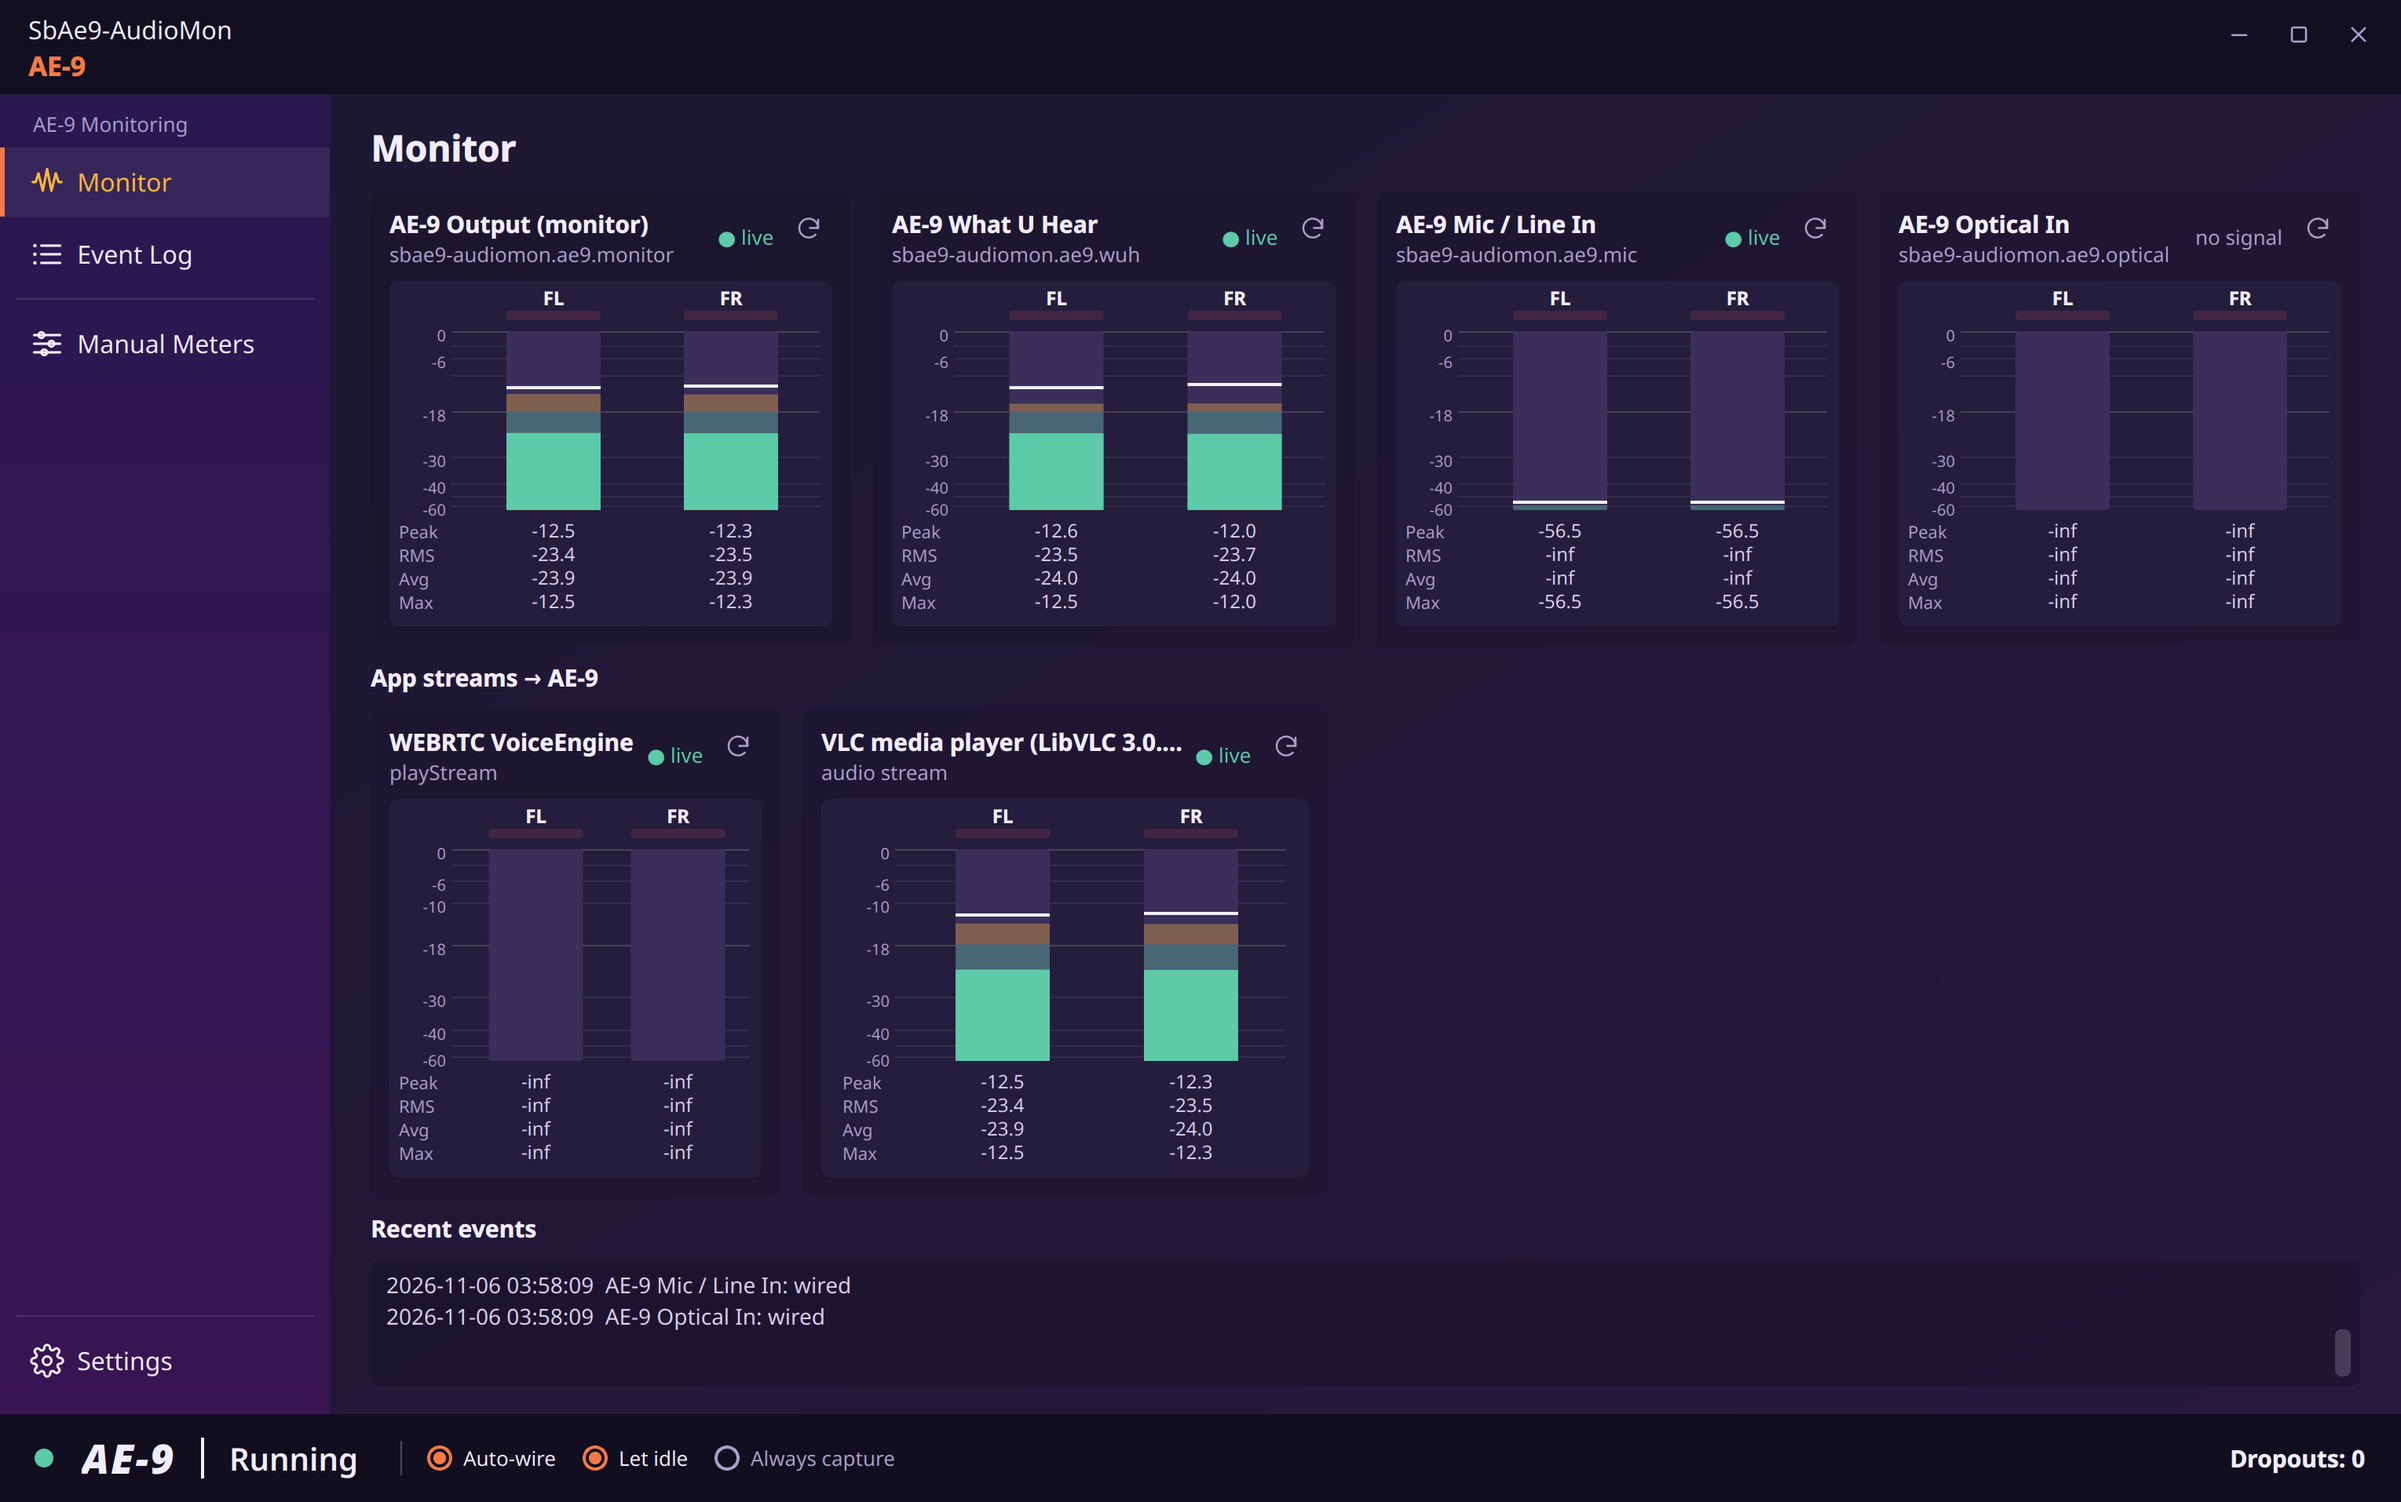
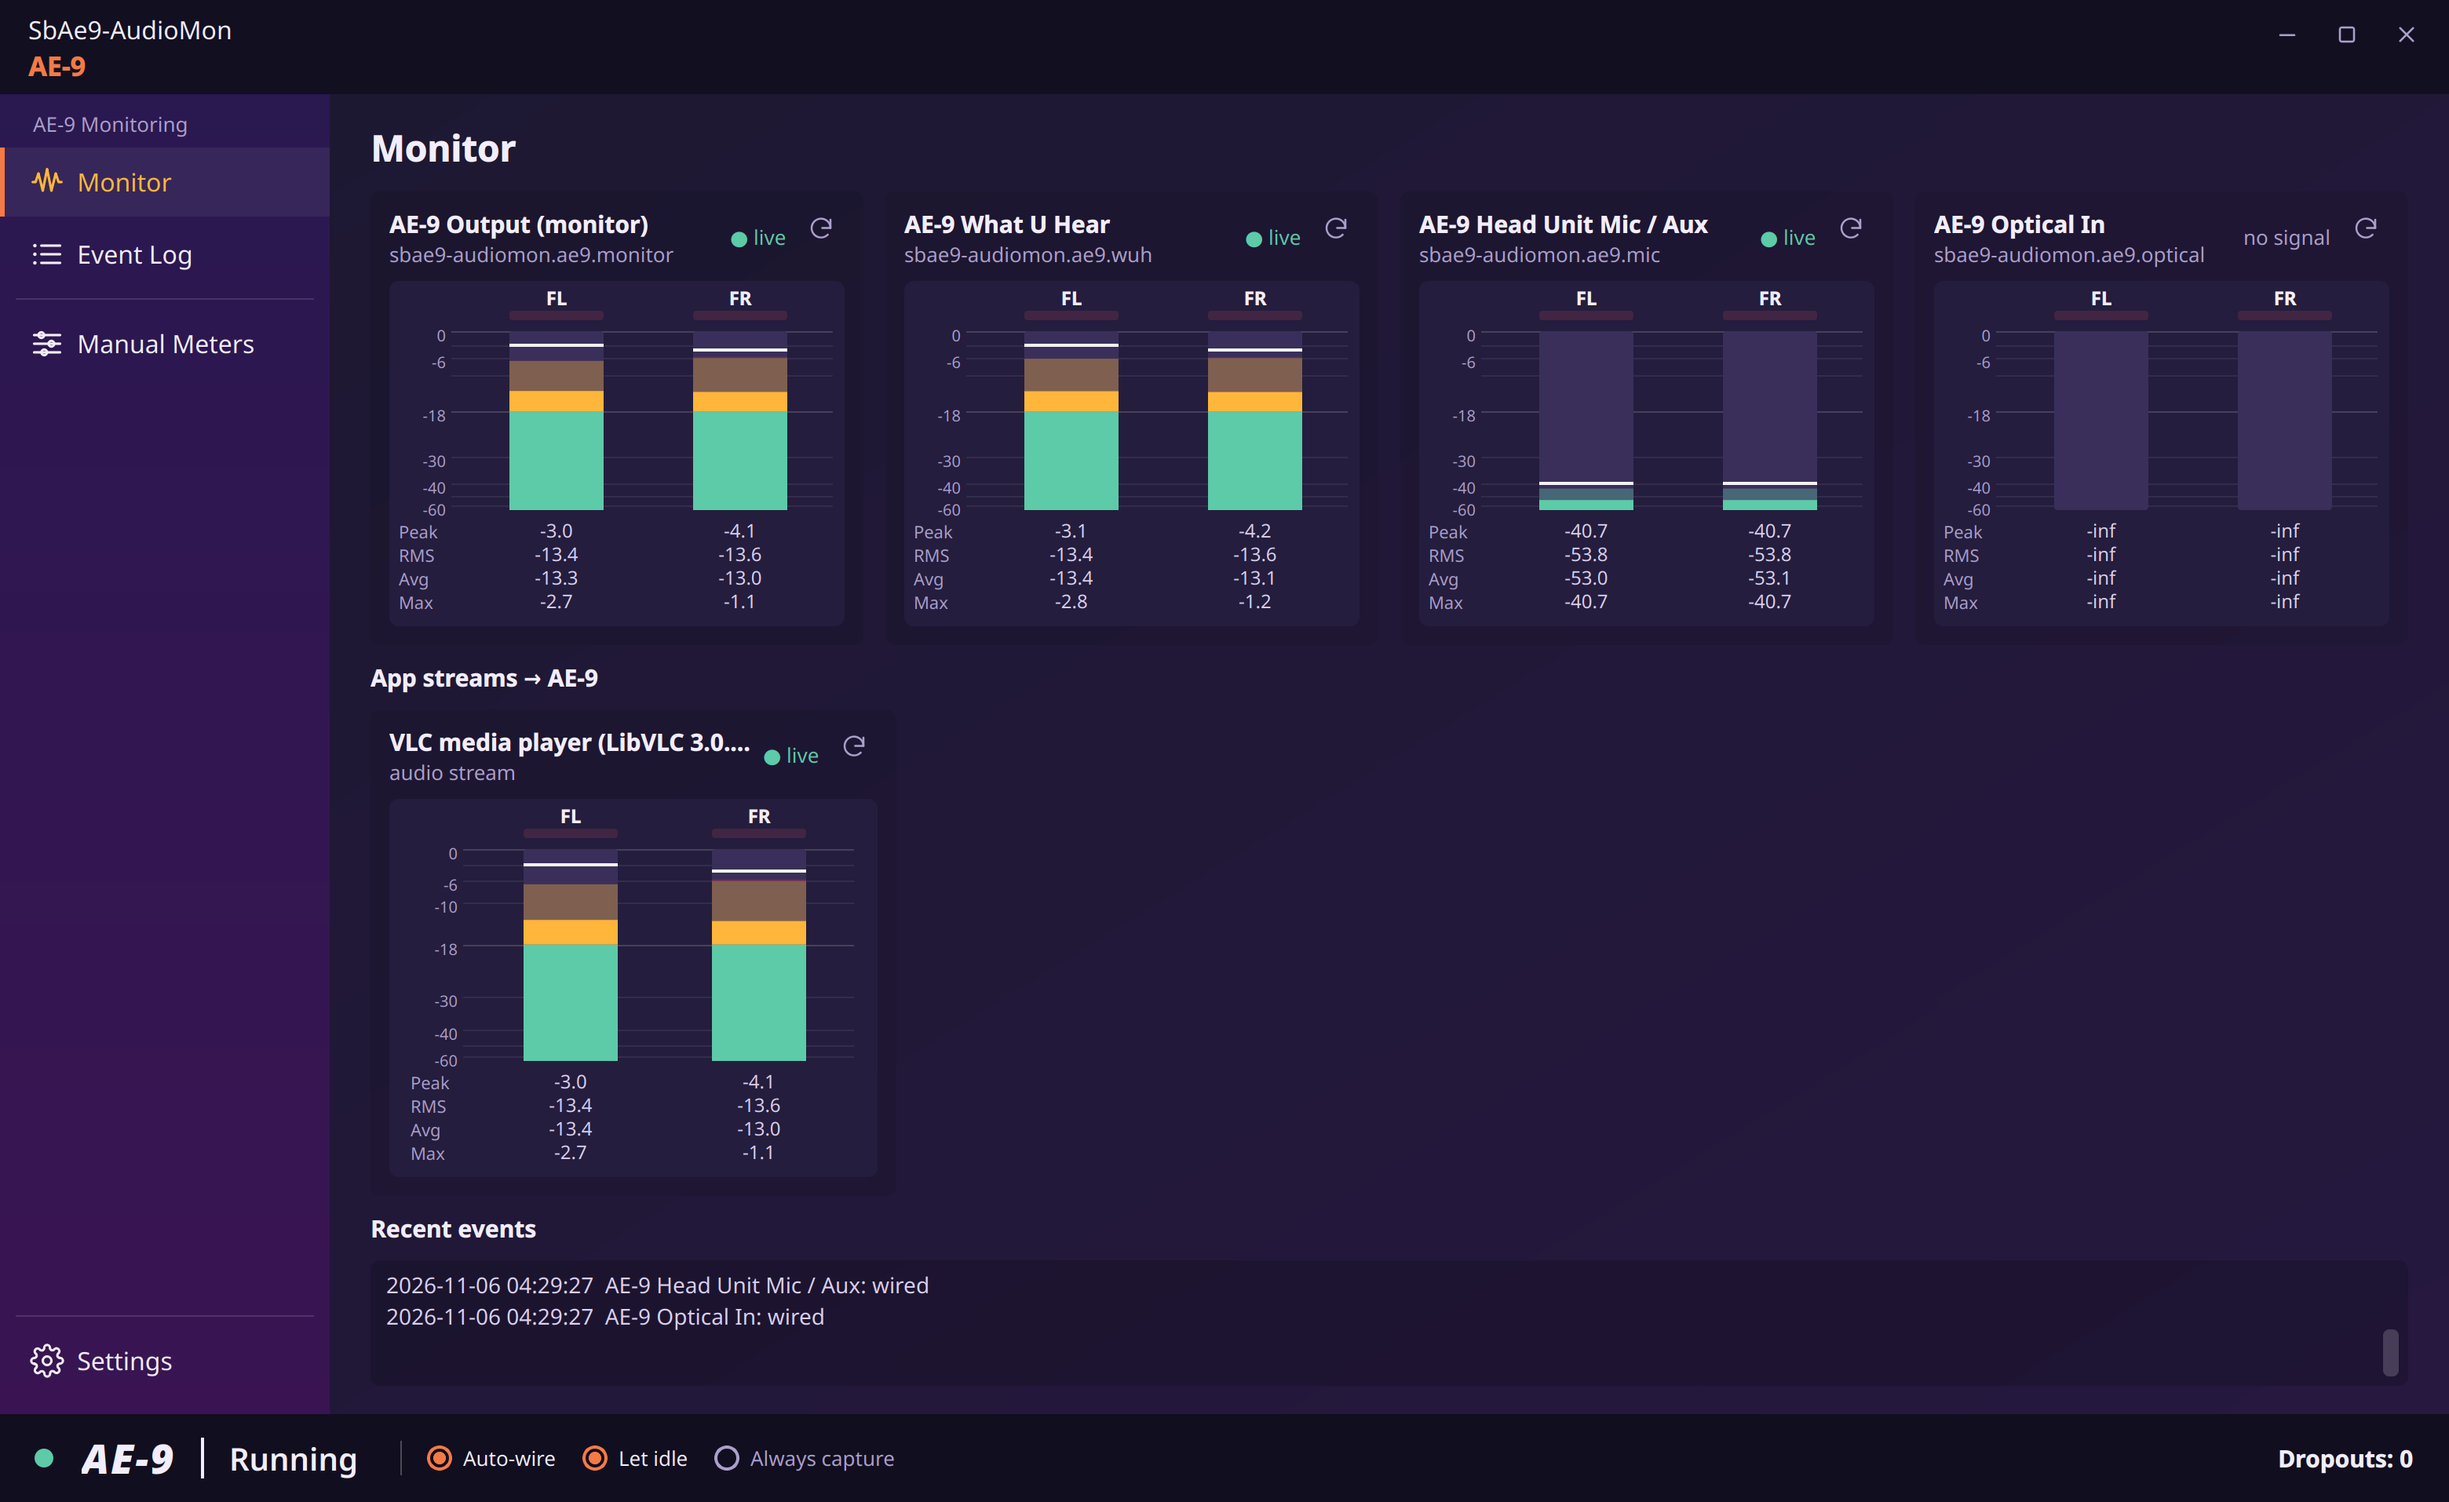
Name the head unit's input "AE-9 Head Unit Mic / Aux"; kit 0.3.3
Names now say where each jack lives. The mic meter is the head unit's input
(the XLR/TRS and 3.5 mm mic jacks share it), not a "line in": meter title,
log lines, Settings and README updated, and the README says which jacks each
meter covers. Node names are unchanged. Kit 0.3.3 gives the fake card the
driver's new desktop name; screenshots retaken (the real one with the mic live).

diff --git a/sbae9kit/testing/pipewire.py b/sbae9kit/testing/pipewire.py
@@ -41,6 +41,9 @@ from . import fixture_path, scaled
 SINK = "alsa_output.pci-0000_06_00.0.analog-stereo"
 MIC = "alsa_input.pci-0000_06_00.0.analog-stereo"
 WHAT_U_HEAR = "alsa_input.ae9_what_u_hear"
+# The driver's desktop name for the head unit's input: the XLR/TRS jack and the
+# 3.5 mm mic jack share it (config/61-ae9-names.conf). The snapshot predates it.
+MIC_DESC = "AE-9 Head Unit Mic / Aux"
 OPTICAL = "alsa_input.ae9_optical"
 WUH_OFFSET_DB = 0.0           # What U Hear is level-exact against the source (a -20 dBFS
                               # peak sine reads -20 peak / -23 RMS, as at the output)
@@ -59,7 +62,7 @@ class FakePipeWire:
         self.handlers = {}            # prog -> fn(*args) -> str, for commands an app adds
         self.streams = {}             # app stream node id -> level dBFS
         self.silent_restart = False   # What U Hear runs but delivers silence (the bug)
-        self.mic_db = None            # level on Mic / Line In (None = silence)
+        self.mic_db = None            # level on the head unit's Mic / Aux input (None = silence)
         self.optical_db = None        # level on a lit Optical In (None = no light: silence)
         self.jitter = 0.0             # +/- dB of random wobble on every level (demos)
         self.suspend_after = scaled(REAL_SUSPEND_AFTER)
@@ -106,7 +109,9 @@ class FakePipeWire:
         for o in snapshot:
             if o.get("type") != "PipeWire:Interface:Node":
                 continue
-            props = o["info"]["props"]
+            props = dict(o["info"]["props"])
+            if props.get("node.name") == MIC:
+                props["node.description"] = MIC_DESC   # as the driver's names config sets it
             nid = self._node(props)
             self._card_nodes.append(nid)
             if props.get("media.class") == "Audio/Sink":

diff --git a/audiomon/window.py b/audiomon/window.py
@@ -136,19 +136,19 @@ class SettingsPage(Page):
         self.body.addWidget(label("Monitoring", "sectionTitle"))
         self.auto_cb = check(
             "Auto-wire AE-9",
-            "Meter the AE-9 output monitor, What U Hear, Mic / Line In, Optical In and every "
+            "Meter the AE-9 output monitor, What U Hear, the head unit's Mic / Aux, the card's Optical In and every "
             "app stream playing to the AE-9. Listen-only: never changes defaults, moves "
             "streams or touches mixer controls.",
             cfg["mode"] == "ae9", win.set_auto)
         self.idle_cb = check(
             "Let the AE-9 idle",
             "Meters never keep the card awake. The output and app meters are passive, and "
-            "What U Hear / Mic / Optical are only wired while the AE-9 sink is running. "
+            "What U Hear / Head Unit Mic / Optical In are only wired while the AE-9 sink is running. "
             "Off: everything stays wired and the AE-9 never suspends.",
             cfg["let_idle"], win.set_let_idle)
         self.capture_cb = check(
             "Always capture inputs",
-            "Comparison mode: keep What U Hear / Mic / Optical wired while the card idles "
+            "Comparison mode: keep What U Hear / Head Unit Mic / Optical In wired while the card idles "
             "(their capture converters and DMA stay running). The sink can still suspend.",
             cfg["always_capture"], win.set_always_capture)
 

diff --git a/sbae9kit/testing/__init__.py b/sbae9kit/testing/__init__.py
@@ -3,7 +3,7 @@
 
 No card, no PipeWire, no real settings: tests run against a fake PipeWire
 graph built from a snapshot of the real machine (fixtures/pw_ae9_stereo.json:
-the AE-9 sink and Mic / Line In on driver 0.6.8), with What U Hear and Optical
+the AE-9 sink and the head unit's Mic / Aux input on driver 0.6.8), with What U Hear and Optical
 In added the way the driver's PipeWire config adds them.
 
     pipewire   FakePipeWire (graph, ports, links, running / idle / suspended,
@@ -73,5 +73,5 @@ def block_subprocesses():
 
 from .pipewire import (  # noqa: E402,F401
     FakeLinker, FakePipeWire, make_fake_capture,
-    MIC, OPTICAL, SINK, WHAT_U_HEAR, WUH_OFFSET_DB,
+    MIC, MIC_DESC, OPTICAL, SINK, WHAT_U_HEAR, WUH_OFFSET_DB,
 )

diff --git a/audiomon/__init__.py b/audiomon/__init__.py
@@ -6,7 +6,8 @@ or touches the card's mixer (so it never imports sbae9kit.mixer).
 Two modes:
 
 * AE-9 mode (default): finds the AE-9 nodes and wires meters to its output
-  monitor, What U Hear loopback, Mic/Line In, Optical In and every app stream
+  monitor, What U Hear loopback, the head unit's Mic / Aux input, the card's
+  Optical In and every app stream
   playing to it. Flags "SILENT" dropouts and keeps a timestamped debug log.
 * Manual meters: two meters with 2/4/6/8 unlinked input ports, to wire by hand
   with Helvum, qpwgraph, pw-link...

diff --git a/tests/test_ae9_monitor.py b/tests/test_ae9_monitor.py
@@ -179,7 +179,7 @@ class CardComesAndGoes(MonitorTest):
         self.pw.card_present(False)
         self.assertTrue(wait_until(lambda: self.view.fixed["wuh"].note == "not found"))
         log = self.log_text()
-        for title in ("AE-9 Output (monitor)", "AE-9 What U Hear", "AE-9 Mic / Line In"):
+        for title in ("AE-9 Output (monitor)", "AE-9 What U Hear", "AE-9 Head Unit Mic / Aux"):
             self.assertIn(f"{title}: disappeared", log)
         self.assertEqual(self.win.state_lbl.text(), "Not found")
 

diff --git a/audiomon/monitor.py b/audiomon/monitor.py
@@ -49,7 +49,7 @@ FIXED_TAPS = (
     # when "let the AE-9 idle" is on, so we never hold its capture PCMs open)
     ("monitor", "AE-9 Output (monitor)", "sbae9-audiomon.ae9.monitor", False),
     ("wuh", "AE-9 What U Hear", "sbae9-audiomon.ae9.wuh", True),
-    ("mic", "AE-9 Mic / Line In", "sbae9-audiomon.ae9.mic", True),
+    ("mic", "AE-9 Head Unit Mic / Aux", "sbae9-audiomon.ae9.mic", True),
     ("optical", "AE-9 Optical In", "sbae9-audiomon.ae9.optical", True),
 )
 

diff --git a/sbae9kit/__init__.py b/sbae9kit/__init__.py
@@ -16,4 +16,4 @@ pass them in.
     testing   the fake AE-9 both apps' tests run against (tests only)
 """
 
-KIT_VERSION = "0.3.2"
+KIT_VERSION = "0.3.3"

diff --git a/README.md b/README.md
@@ -10,9 +10,9 @@ Linux). Both apps are built on one shared base,
 ## Screenshots
 
 <img src="docs/monitor.png" alt="Monitor page on a real AE-9">
-<sub>The Monitor page on a real AE-9, with VLC playing and a call app open. The
-output and What U Hear agree, so the card is playing what PipeWire sends it.
-The optical jack is dark.</sub>
+<sub>The Monitor page on a real AE-9, with VLC playing and the head unit's mic
+live. The output and What U Hear agree, so the card is playing what PipeWire
+sends it. The card's optical in jack is dark.</sub>
 
 <table>
   <tr>
@@ -75,10 +75,10 @@ SbAe9-AudioMon finds the AE-9's PipeWire nodes by name/card and wires a meter to
 
 | Meter | Source | Meter node |
 |-------|--------|-----------|
-| AE-9 Output (monitor) | the AE-9 sink's monitor ports (what PipeWire sends to the card) | `sbae9-audiomon.ae9.monitor` |
+| AE-9 Output (monitor) | the AE-9 sink's monitor ports: what PipeWire sends to the card (its RCA out in speaker mode, the head unit's headphone jacks in headphone mode) | `sbae9-audiomon.ae9.monitor` |
 | AE-9 What U Hear | `alsa_input.ae9_what_u_hear` (what the card actually plays, after its DSP) | `sbae9-audiomon.ae9.wuh` |
-| AE-9 Mic / Line In | the AE-9 analog source | `sbae9-audiomon.ae9.mic` |
-| AE-9 Optical In | `alsa_input.ae9_optical` (shows "no signal" without light on the jack) | `sbae9-audiomon.ae9.optical` |
+| AE-9 Head Unit Mic / Aux | the head unit's input: the XLR/TRS jack and the 3.5 mm mic jack, which share it (`alsa_input.pci-…analog-stereo`, hw:AE9,0) | `sbae9-audiomon.ae9.mic` |
+| AE-9 Optical In | the card's optical in jack, `alsa_input.ae9_optical` (shows "no signal" without light on the jack) | `sbae9-audiomon.ae9.optical` |
 | one per app stream | every app stream playing to the AE-9 sink, added/removed as they come and go | `sbae9-audiomon.stream.<id>` |
 
 Nodes are re-found and re-wired automatically when the card drops off and comes
@@ -98,7 +98,7 @@ suspending:
 
 - The output-monitor and app-stream meters are passive nodes (`node.passive`),
   so they only receive data while the card is running anyway.
-- What U Hear, Mic/Line and Optical have to actively capture, so they're only
+- What U Hear, the head unit's Mic / Aux and Optical In have to actively capture, so they're only
   wired while the AE-9 sink is `running`, and they're unwired as soon as it goes idle.
   This means nothing of ours holds an AE-9 PCM open while it idles or suspends.
 
@@ -107,7 +107,7 @@ That keeps the AE-9 running permanently.
 
 **Always capture inputs** (off by default, `--always-capture`) is a comparison
 mode. The output and app meters stay passive, so the sink can still suspend,
-but What U Hear, Mic and Optical stay wired all the time. That keeps the card's
+but What U Hear, the head unit's Mic / Aux and Optical In stay wired all the time. That keeps the card's
 capture converters and DMA running while playback is idle. Use it to check
 whether open captures change the bug's behaviour.
 

diff --git a/CHANGELOG.md b/CHANGELOG.md
@@ -22,6 +22,14 @@ Blaster AE-9. A debugging companion to
   earlier -3.1 dB came from misreading a sine's RMS as an offset; the real
   card is level-exact, and AudioMon measured it within 0.1-0.3 dB.
 
+### Changed
+
+- The mic meter is now "AE-9 Head Unit Mic / Aux" (was "Mic / Line In"): it's
+  the head unit's XLR/TRS and 3.5 mm mic jacks, which share one input. Names now
+  say where each jack lives (the head unit or the card). The fake AE-9 (kit
+  0.3.3) uses the driver's new name too. Node names are unchanged.
+- The README's real-card screenshot is retaken with the new name.
+
 ## 0.3.0 (2026-11-06)
 
 Built on SbAe9-Kit, the base it now shares with Sound Blaster Command.
